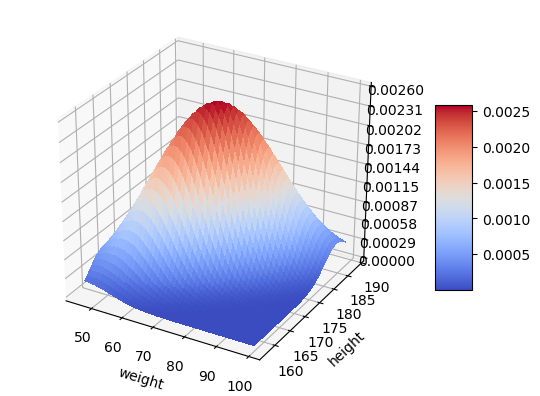
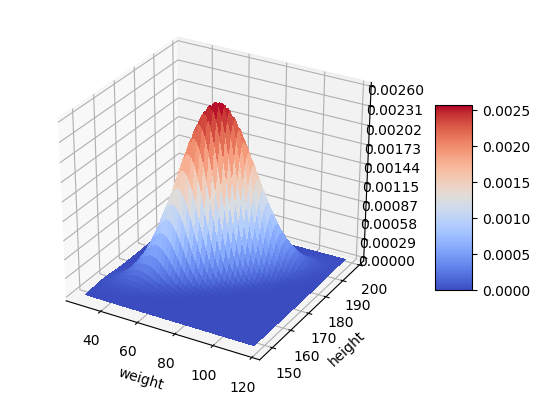
2.2: fixed prints format

diff --git a/Project 2/Task 2.2/task2.2.py b/Project 2/Task 2.2/task2.2.py
@@ -30,8 +30,8 @@ def plot_w_h(w, h, filename='w_h.png', w_=None, h_=None):
 
 
 def plot_bi_variate_distribution(w, h, s_w, s_h, m_w, m_h, ro, filename):
-    x_span = 0.1*(np.max(w)-np.min(w))
-    y_span = 0.1*(np.max(h)-np.min(h))
+    x_span = 0.5*(np.max(w)-np.min(w))
+    y_span = 0.5*(np.max(h)-np.min(h))
     x = np.arange(np.min(w)-x_span, np.max(w)+x_span, 0.1)
     y = np.arange(np.min(h)-y_span, np.max(h)+y_span, 0.1)
     x, y = np.meshgrid(x, y)
@@ -69,7 +69,7 @@ def main():
 
     # mean of height
     h_mean = np.mean(h)
-    print(w_mean, h_mean)
+    print('means of weight and height: %s, %s' % (w_mean, h_mean))
 
     # deviation of weight
     s_w = np.sqrt(np.sum((w - w_mean) ** 2) / float(len(w)))
@@ -84,15 +84,16 @@ def main():
 
     # covariance between array x and array y
     cov_w_h = cov[0][1]
+    print('covariance of w and h: %s' % cov_w_h)
     # correlation coefficient
     ro = cov_w_h / (s_w * s_h)
-    print('ro = %s' % ro)
-    plot_w_h(w, h, 'filtered weight and height (no outliers)', 'w_h.png')
-    # plot_bi_variate_distribution(w, h, s_w, s_h, w_mean, h_mean, ro,
-    #                              'bi_variate_distr.png')
+    print('ro : %s' % ro)
+    plot_w_h(w, h, 'w_h.png')
+    plot_bi_variate_distribution(w, h, s_w, s_h, w_mean, h_mean, ro,
+                                 'bi_variate_distr.png')
     # predict missed weights
     w_ = w_mean + (ro * (h_-h_mean))/(s_w/s_h)
-    print('predicted weights: %s ' % w_)
+    print('predicted weights: %s \nfor heights: %s' % (w_, h_))
     plot_w_h(w, h, 'filled_missings.png', w_, h_)
 
 
